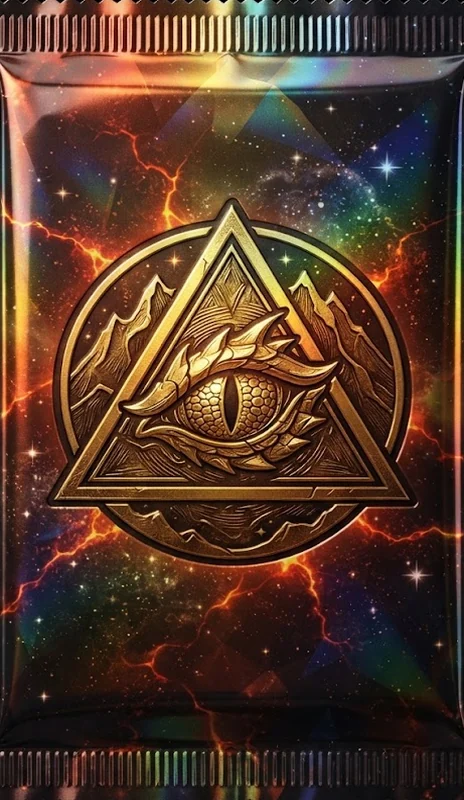
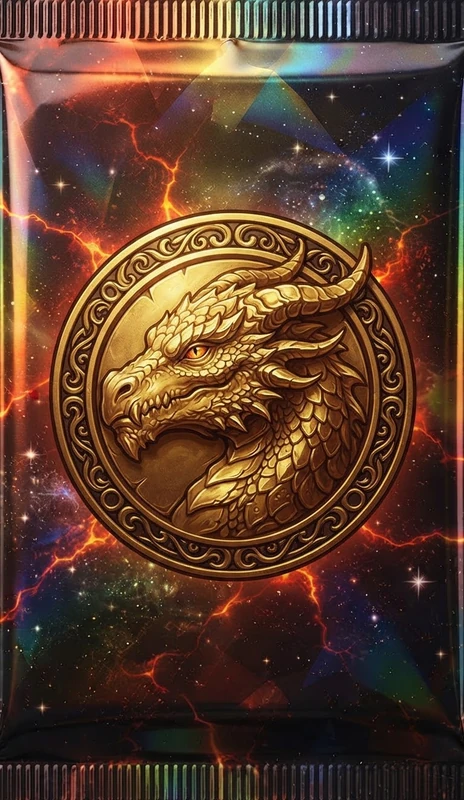
v327 : nouveaux boosters Primordial (dragon en médaillon) et Artificiel (masque d'automate), générés par Gemini ; pack-art.py gère les images plein cadre
Claude-Session: https://claude.ai/code/session_01G3jW2e2fkjyWdrMoKXNbtm

diff --git a/sw.js b/sw.js
@@ -1,7 +1,7 @@
 // Service worker d'ABYSSAL : l'application et les données sont mises en cache
 // pour fonctionner hors ligne après une première visite. Incrémenter VERSION à
 // chaque publication pour que les joueurs reçoivent la mise à jour.
-const VERSION = 'abyssal-v326';
+const VERSION = 'abyssal-v327';
 const ART_CACHE = 'abyssal-media';  // images du jeu : gardées entre les versions
 const FONT_CACHE = 'abyssal-fonts';
 const CORE = [

diff --git a/js/config.js b/js/config.js
@@ -1,7 +1,7 @@
 // Configuration centrale du jeu : raretés, tables de tirage, boosters,
 // économie, variantes, progression. Toute la balance se règle ici.
 
-export const VERSION = 'v326'; // même numéro que sw.js : affiché dans Réglages > À propos
+export const VERSION = 'v327'; // même numéro que sw.js : affiché dans Réglages > À propos
 
 export const RARITIES = [
   { key: 'C',  name: 'Commune',     short: 'C',  color: '#A3ADBD' },

diff --git a/tools/pack-art.py b/tools/pack-art.py
@@ -21,6 +21,10 @@ h = bot - top + 1
 w = int(round(h * 464 / 800))  # cadre 29:50, centré sur le sachet
 cx = (left + right) / 2
 box = (int(round(cx - w / 2)), int(top), int(round(cx + w / 2)), int(bot + 1))
+if right - left + 1 >= im.width - 4 and w > im.width:
+    # sachet plein cadre, plus étroit que 29:50 : on rogne un peu le haut et le bas au lieu d'ajouter des marges noires
+    w = im.width; h2 = int(round(w * 800 / 464)); cy = (top + bot) / 2
+    box = (0, int(round(cy - h2 / 2)), w, int(round(cy - h2 / 2)) + h2)
 canvas = Image.new('RGB', (box[2] - box[0], box[3] - box[1]), (0, 0, 0))
 crop = im.crop((max(0, box[0]), box[1], min(im.width, box[2]), box[3]))
 canvas.paste(crop, (max(0, -box[0]), 0))
@@ -31,4 +35,4 @@ name = {'event': 'evenement', 'shadow': 'ombres'}.get(key, key)
 dst = os.path.join(ROOT, 'store/logo', f'booster-{name}-source.jpg')
 if os.path.abspath(src) != os.path.abspath(dst):
     Image.open(src).convert('RGB').save(dst, quality=92)
-print(f'sachet détecté : {right - left + 1} × {h} px, marges latérales {(w - (right - left + 1)) / 2:.0f} px → assets/packs/{key}.webp (464 × 800), source gardée dans store/logo/')
+print(f'sachet détecté : {right - left + 1} × {bot - top + 1} px, cadre {box} → assets/packs/{key}.webp (464 × 800), source gardée dans store/logo/')

diff --git a/CLAUDE.md b/CLAUDE.md
@@ -22,7 +22,7 @@ Ce texte reprend tout ce qu'il faut savoir du projet. Ce fichier est lu automati
 - Le réseau de la session bloque github.io : pour vérifier la publication, passe par l'outil GitHub (déploiements Pages) ou demande une capture au propriétaire.
 
 ## 2. Routine de livraison
-1. Version : **ligne 4** de `js/config.js` **et** de `sw.js`, toujours le même numéro (`sed -i "4s/vX/vY/" js/config.js sw.js`). Actuellement **v326**.
+1. Version : **ligne 4** de `js/config.js` **et** de `sw.js`, toujours le même numéro (`sed -i "4s/vX/vY/" js/config.js sw.js`). Actuellement **v327**.
 2. Tests : `node --test tests/*.test.mjs` (206 tests), `node tools/validate.mjs`. Si le combat ou l'équilibre change : `node tools/fuzz.mjs 300` (étage moyen ≈ 12 à 14 en normal).
 3. Vérification dans le navigateur avec Playwright (`/opt/node-tools/node_modules/playwright/index.mjs`, Chromium déjà installé), avec un serveur local `python3 -m http.server 8092` lancé dans le dossier. Tailles iPhone SE et iPhone 13. **L'écran d'ouverture attend un toucher** (« Touche l'écran pour entrer ») : dans les scripts, cliquer au milieu de l'écran (dans la fenêtre 390×664) avant tout le reste.
 4. Commit, push, réponse en français.
@@ -32,7 +32,7 @@ Ce texte reprend tout ce qu'il faut savoir du projet. Ce fichier est lu automati
 - Ajouter des créatures : fichier de lot `data/lot-*.json` → `node tools/add-lot.mjs data/lot-x.json --write` → `node tools/gen-kits.mjs` (identités de combat dans `js/core/kits-data.js`) → `python3 tools/add-art.py <ID> <image>` pour chaque illustration (recadrage 5:7, 600×840 et miniature dans `assets/art/lite/`).
 - Refaire une illustration existante : `tools/redo-art.json` liste les descriptions, `node tools/redo-art.mjs` affiche les prompts, `node tools/redo-art.mjs <ID> --write` enregistre la description après réception de l'image.
 - **Logo (v312, « le Sceau fendu », généré par Gemini)** : sources dans `store/logo/` (`embleme-source.jpg` carré 2048, `logo-source.jpg` paysage). `python3 tools/brand.py` refait tout : `icons/` (PWA, iPhone, favicon, maskable), `assets/brand/title.webp` (logo complet détouré, affiché sur l'écran d'ouverture et l'Accueil), `emblem.webp` (disque rond, classements), `loading.webp` (fond uni de l'ouverture), icônes et écrans de démarrage Android, `store/apple/icone-1024.png`, `store/google/icone-512.png`. Si le logo change : remplacer les deux sources, relancer l'outil, puis `node tools/store-shots.mjs` et `node tools/store-compose.mjs`. La lueur animée de l'écran d'ouverture (`.boot-eye`) est positionnée sur l'œil (pourcentages affichés par l'outil, à reporter dans `css/army.css`).
-- Dos des cartes (v313) : `assets/backs/back.webp` (600 × 840, recadré 5:7 depuis `store/logo/dos-source.jpg`, généré par Gemini avec l'emblème). Booster standard (v314) : `assets/packs/standard.webp` (464 × 800, sachet recadré depuis `store/logo/booster-standard-source.jpg`, marges noires latérales invisibles). Booster événement (v315) : `assets/packs/event.webp`, même recette depuis `store/logo/booster-evenement-source.jpg` (sceaux de cire aux empreintes abstraites, sans étoile). Les autres boosters (factions, premium, Tirage) **gardent leurs visuels d'origine** (décision du 16 octobre 2026 : chacun son symbole), sauf Primordial et Artificiel à refaire (prompts dans `store/logo-brief.md` §12 bis) ; intégration par `python3 tools/pack-art.py <clé> <image>`.
+- Dos des cartes (v313) : `assets/backs/back.webp` (600 × 840, recadré 5:7 depuis `store/logo/dos-source.jpg`, généré par Gemini avec l'emblème). Booster standard (v314) : `assets/packs/standard.webp` (464 × 800, sachet recadré depuis `store/logo/booster-standard-source.jpg`, marges noires latérales invisibles). Booster événement (v315) : `assets/packs/event.webp`, même recette depuis `store/logo/booster-evenement-source.jpg` (sceaux de cire aux empreintes abstraites, sans étoile). Les autres boosters (factions, premium, Tirage) **gardent leurs visuels d'origine** (décision du 16 octobre 2026 : chacun son symbole), sauf Primordial (tête de dragon en médaillon) et Artificiel (masque d'automate dans un engrenage), refaits en v327 (prompts dans `store/logo-brief.md` §12 bis, sources dans `store/logo/`) ; intégration par `python3 tools/pack-art.py <clé> <image>`.
 - Emblèmes d'ensembles : image sur fond blanc → `python3 tools/cutout.py src.jpg out.webp` → 192×192 dans `assets/sets/`, puis ajouter la clé dans `SET_ART` (`js/ui/icons.js`).
 - Audio (v309, audit mesuré à l'ffmpeg) : plus aucun son ni musique synthétisés pendant le chargement (silence, puis le fichier) ; seuls `rip` et `rumble` restent synthétisés. `actor` joue `sheet`. Volumes et passe-bas par fichier dans `SAMPLE_GAIN` / `SAMPLE_LOWPASS` (`js/ui/sound.js`), volume par musique dans `TRACK_GAIN` (`js/ui/music.js`). Musiques en boucle sur le fichier entier ; 2 musiques décodées au plus en mémoire. v319 : silences initiaux coupés sur 9 sons (achievement, boost, boss, burn, burnall, chest, nav, recover, swipe), fondu de sortie sur `suspense`/`suspensebig`, `summon` joué quand une créature se relève (`revive`).
 - Sons : fichiers dans `assets/sfx/` (liste dans `assets/sfx/manifest.json`), avec un repli synthétisé dans `js/ui/sound.js`. Sons et musiques faits avec ElevenLabs (abonnement payant). **Aucun bip** : le carillon « discover » a été supprimé (remplacé par le son « sheet »), et les fins tonales des sons de rareté Commune et Rare ont été coupées. Le propriétaire déteste les bips.
